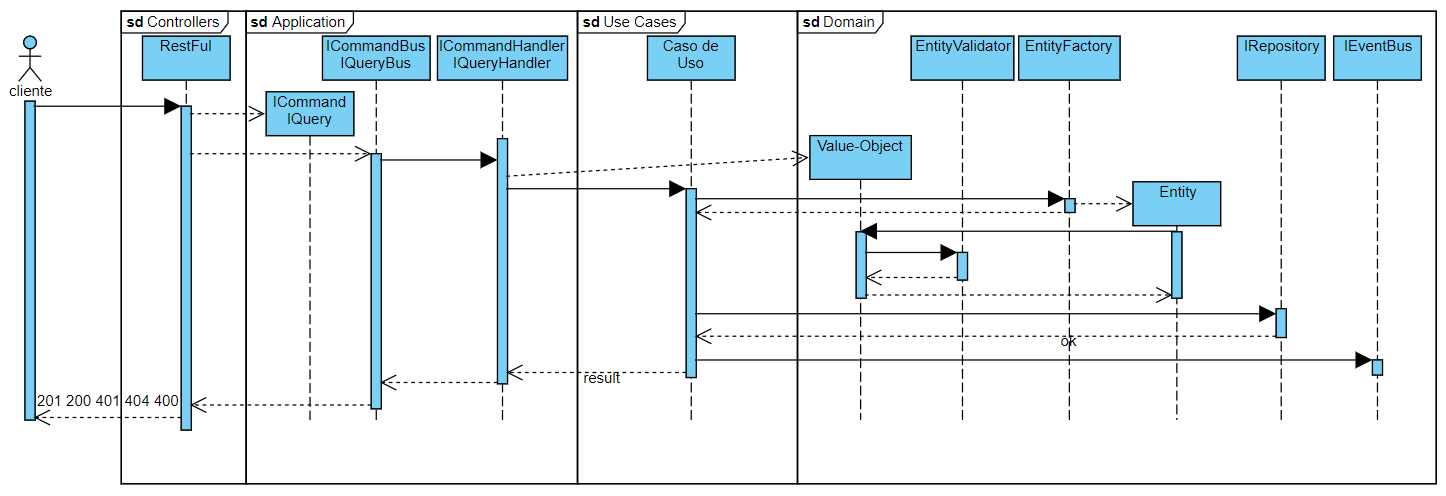
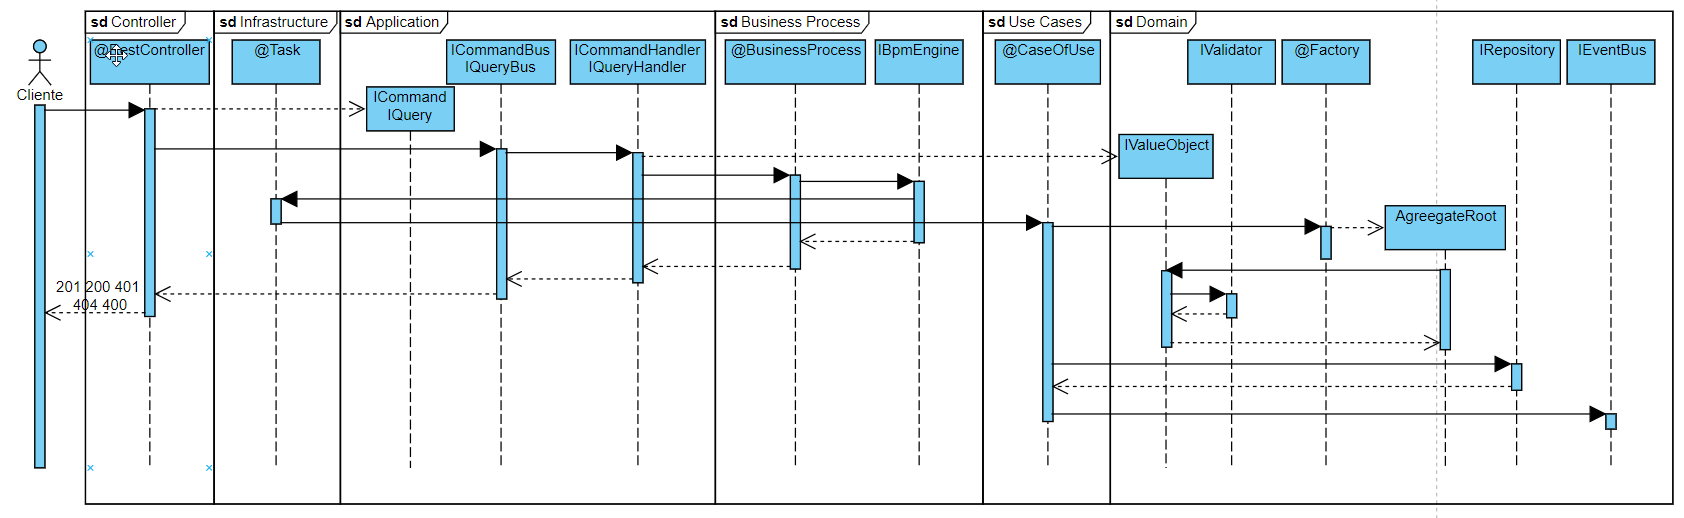
Ajustando documentacion de la arquitectura

diff --git a/src/main/java/com/evobank/shopping/submodules/products/infrastructure/bpm/task/ProductSubtractStockDelegate.java b/src/main/java/com/evobank/shopping/submodules/products/infrastructure/bpm/task/ProductSubtractStockDelegate.java
@@ -1,6 +1,7 @@
 package com.evobank.shopping.submodules.products.infrastructure.bpm.task;
 
 import com.evobank.architecture.infrastructure.InjectDependency;
+import com.evobank.architecture.infrastructure.Task;
 import com.evobank.shopping.submodules.products.domain.vo.ProductId;
 import com.evobank.shopping.submodules.products.domain.vo.ProductQuantityToSubtract;
 import com.evobank.shopping.submodules.products.usecases.ProductStockUpdater;
@@ -15,7 +16,7 @@ import org.springframework.stereotype.Component;
 @AllArgsConstructor(onConstructor_= {@InjectDependency})
 @NoArgsConstructor(force = true)
 @Slf4j
-@Component
+@Task
 public final class ProductSubtractStockDelegate implements JavaDelegate {
 
     private final ProductStockUpdater updater;

diff --git a/src/main/java/com/evobank/shopping/ShoppingApplication.java b/src/main/java/com/evobank/shopping/ShoppingApplication.java
@@ -8,6 +8,7 @@ import com.evobank.architecture.domain.bus.event.DomainEventSubscriber;
 import com.evobank.architecture.domain.service.DomainService;
 import com.evobank.architecture.infrastructure.Adapter;
 import com.evobank.architecture.infrastructure.InjectDependency;
+import com.evobank.architecture.infrastructure.Task;
 import com.evobank.architecture.usecases.CaseOfUse;
 import org.springframework.boot.SpringApplication;
 import org.springframework.boot.autoconfigure.SpringBootApplication;
@@ -21,6 +22,7 @@ import org.springframework.context.annotation.FilterType;
 		CommandHandler.class,
 		QueryHandler.class,
 		BusinessProcess.class,
+		Task.class,
 		CaseOfUse.class,
 		Adapter.class,
 		DomainService.class,

diff --git a/src/main/java/com/evobank/shopping/submodules/businessruletask/businessProcess/ProcessBusinessRuleTask.java b/src/main/java/com/evobank/shopping/submodules/businessruletask/businessProcess/ProcessBusinessRuleTask.java
@@ -1,7 +1,7 @@
 package com.evobank.shopping.submodules.businessruletask.businessProcess;
 
 import com.evobank.architecture.businessprocess.BusinessProcess;
-import com.evobank.architecture.domain.bus.bpm.IBpmEngine;
+import com.evobank.architecture.businessprocess.bpm.IBpmEngine;
 import com.evobank.architecture.infrastructure.InjectDependency;
 import com.evobank.shopping.submodules.businessruletask.domain.vo.BusinessRuleTaskGuestCount;
 import com.evobank.shopping.submodules.businessruletask.domain.vo.BusinessRuleTaskSeason;

diff --git a/src/main/java/com/evobank/shopping/submodules/products/businessprocess/ProcessStockProducts.java b/src/main/java/com/evobank/shopping/submodules/products/businessprocess/ProcessStockProducts.java
@@ -1,7 +1,7 @@
 package com.evobank.shopping.submodules.products.businessprocess;
 
 import com.evobank.architecture.businessprocess.BusinessProcess;
-import com.evobank.architecture.domain.bus.bpm.IBpmEngine;
+import com.evobank.architecture.businessprocess.bpm.IBpmEngine;
 import com.evobank.architecture.infrastructure.InjectDependency;
 import com.evobank.shopping.submodules.products.domain.vo.ProductId;
 import com.evobank.shopping.submodules.products.domain.vo.ProductQuantityToSubtract;

diff --git a/src/main/java/com/evobank/shopping/submodules/gateways/exclusive/businessProcess/ProcessExclusiveGateway.java b/src/main/java/com/evobank/shopping/submodules/gateways/exclusive/businessProcess/ProcessExclusiveGateway.java
@@ -1,7 +1,7 @@
 package com.evobank.shopping.submodules.gateways.exclusive.businessProcess;
 
 import com.evobank.architecture.businessprocess.BusinessProcess;
-import com.evobank.architecture.domain.bus.bpm.IBpmEngine;
+import com.evobank.architecture.businessprocess.bpm.IBpmEngine;
 import com.evobank.architecture.infrastructure.InjectDependency;
 import com.evobank.shopping.submodules.gateways.exclusive.domain.vo.ExclusiveGatewayValue;
 import lombok.AllArgsConstructor;

diff --git a/src/main/java/com/evobank/shopping/submodules/gateways/inclusive/businessProcess/ProcessInclusiveGateway.java b/src/main/java/com/evobank/shopping/submodules/gateways/inclusive/businessProcess/ProcessInclusiveGateway.java
@@ -1,7 +1,7 @@
 package com.evobank.shopping.submodules.gateways.inclusive.businessProcess;
 
 import com.evobank.architecture.businessprocess.BusinessProcess;
-import com.evobank.architecture.domain.bus.bpm.IBpmEngine;
+import com.evobank.architecture.businessprocess.bpm.IBpmEngine;
 import com.evobank.architecture.infrastructure.InjectDependency;
 import com.evobank.shopping.submodules.gateways.inclusive.domain.vo.InclusiveGatewayValue;
 import lombok.AllArgsConstructor;

diff --git a/src/main/java/com/evobank/shopping/submodules/receivetask/businessProcess/ProcessReceiveTask.java b/src/main/java/com/evobank/shopping/submodules/receivetask/businessProcess/ProcessReceiveTask.java
@@ -1,7 +1,7 @@
 package com.evobank.shopping.submodules.receivetask.businessProcess;
 
 import com.evobank.architecture.businessprocess.BusinessProcess;
-import com.evobank.architecture.domain.bus.bpm.IBpmEngine;
+import com.evobank.architecture.businessprocess.bpm.IBpmEngine;
 import com.evobank.architecture.infrastructure.InjectDependency;
 import com.evobank.shopping.submodules.receivetask.domain.vo.ReceiveTaskVar1;
 import lombok.AllArgsConstructor;

diff --git a/src/main/java/com/evobank/shopping/submodules/sendtask/businessProcess/ProcessSendTask.java b/src/main/java/com/evobank/shopping/submodules/sendtask/businessProcess/ProcessSendTask.java
@@ -1,7 +1,7 @@
 package com.evobank.shopping.submodules.sendtask.businessProcess;
 
 import com.evobank.architecture.businessprocess.BusinessProcess;
-import com.evobank.architecture.domain.bus.bpm.IBpmEngine;
+import com.evobank.architecture.businessprocess.bpm.IBpmEngine;
 import com.evobank.architecture.infrastructure.InjectDependency;
 import com.evobank.shopping.submodules.sendtask.domain.vo.SendTaskVar1;
 import lombok.AllArgsConstructor;

diff --git a/src/main/java/com/evobank/shopping/submodules/usertask/businessProcess/ProcessUserTask.java b/src/main/java/com/evobank/shopping/submodules/usertask/businessProcess/ProcessUserTask.java
@@ -1,7 +1,7 @@
 package com.evobank.shopping.submodules.usertask.businessProcess;
 
 import com.evobank.architecture.businessprocess.BusinessProcess;
-import com.evobank.architecture.domain.bus.bpm.IBpmEngine;
+import com.evobank.architecture.businessprocess.bpm.IBpmEngine;
 import com.evobank.architecture.infrastructure.InjectDependency;
 import com.evobank.shopping.submodules.usertask.domain.vo.UserTaskVar1;
 import lombok.AllArgsConstructor;

diff --git a/src/main/java/com/evobank/shopping/submodules/gateways/parallel/businessProcess/ProcessParallelGateway.java b/src/main/java/com/evobank/shopping/submodules/gateways/parallel/businessProcess/ProcessParallelGateway.java
@@ -1,7 +1,7 @@
 package com.evobank.shopping.submodules.gateways.parallel.businessProcess;
 
 import com.evobank.architecture.businessprocess.BusinessProcess;
-import com.evobank.architecture.domain.bus.bpm.IBpmEngine;
+import com.evobank.architecture.businessprocess.bpm.IBpmEngine;
 import com.evobank.architecture.infrastructure.InjectDependency;
 import lombok.AllArgsConstructor;
 

diff --git a/src/main/java/com/evobank/shopping/infrastructure/bus/bpm/CamundaBpmEngine.java b/src/main/java/com/evobank/shopping/infrastructure/bus/bpm/CamundaBpmEngine.java
@@ -1,6 +1,6 @@
 package com.evobank.shopping.infrastructure.bus.bpm;
 
-import com.evobank.architecture.domain.bus.bpm.IBpmEngine;
+import com.evobank.architecture.businessprocess.bpm.IBpmEngine;
 import com.evobank.architecture.infrastructure.InjectDependency;
 import lombok.AllArgsConstructor;
 import org.camunda.bpm.engine.HistoryService;

diff --git a/src/main/java/com/evobank/architecture/infrastructure/Task.java b/src/main/java/com/evobank/architecture/infrastructure/Task.java
@@ -1,0 +1,9 @@
+package com.evobank.architecture.infrastructure;
+
+import java.lang.annotation.*;
+
+@Retention(RetentionPolicy.RUNTIME)
+@Target(ElementType.TYPE)
+@Inherited
+public @interface Task {
+}
